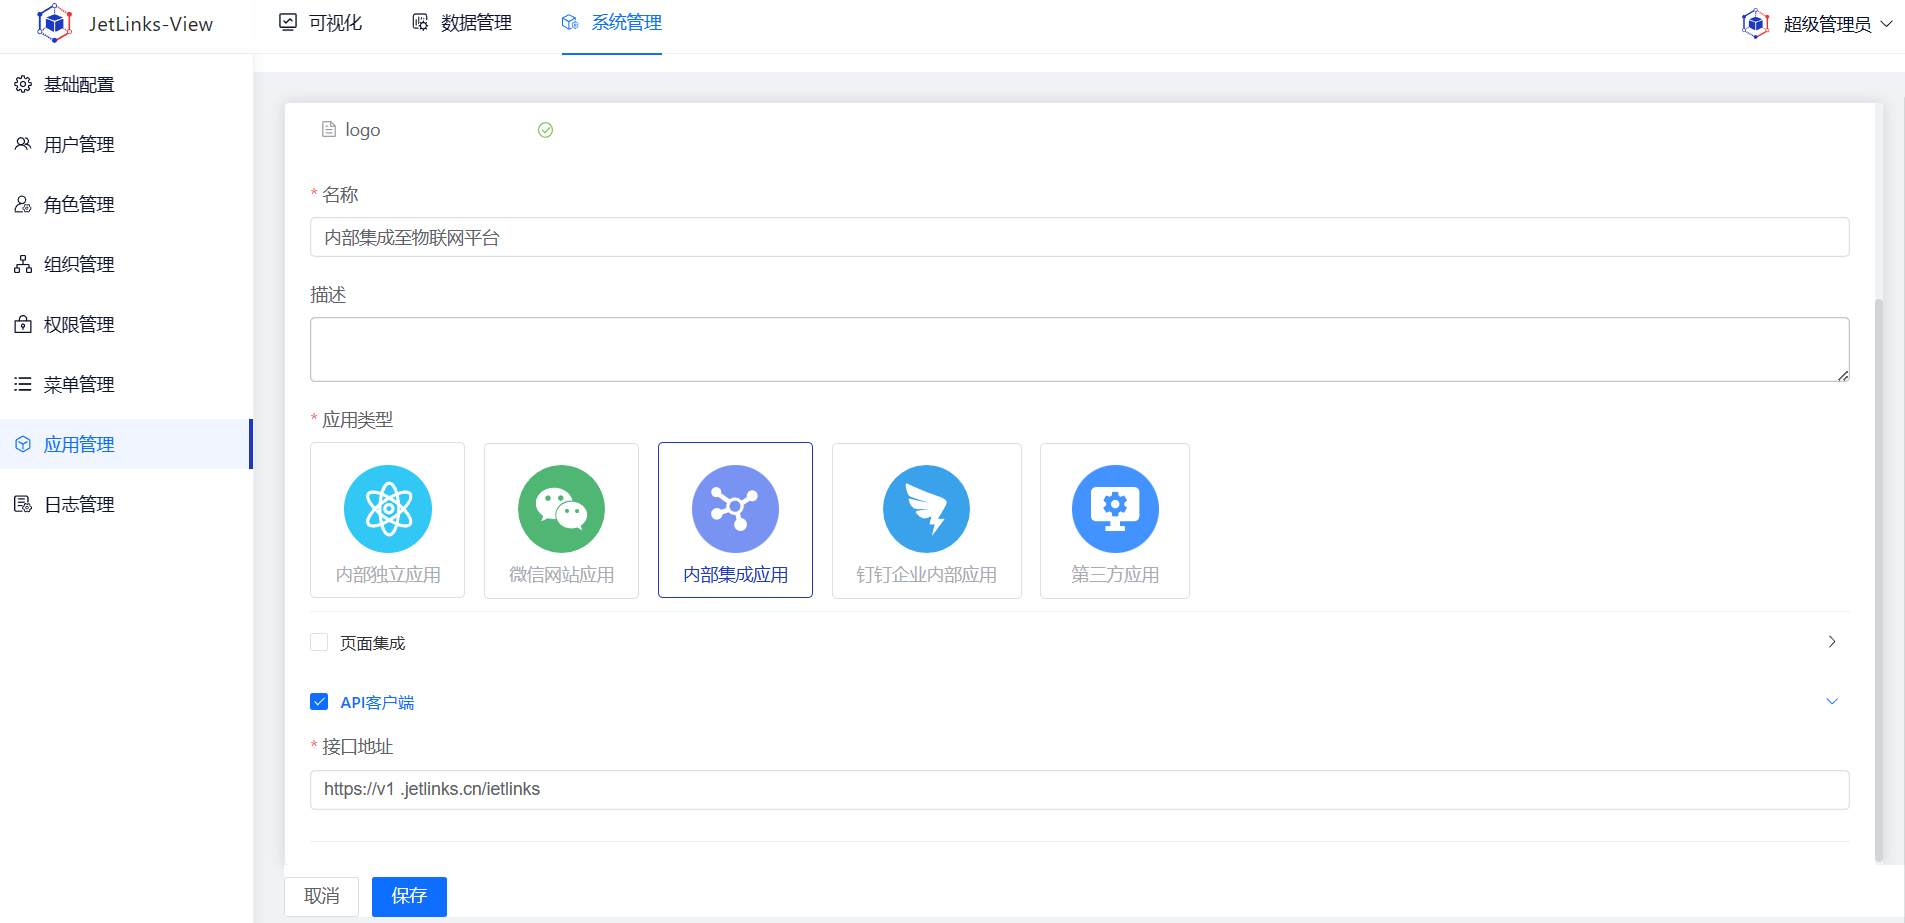
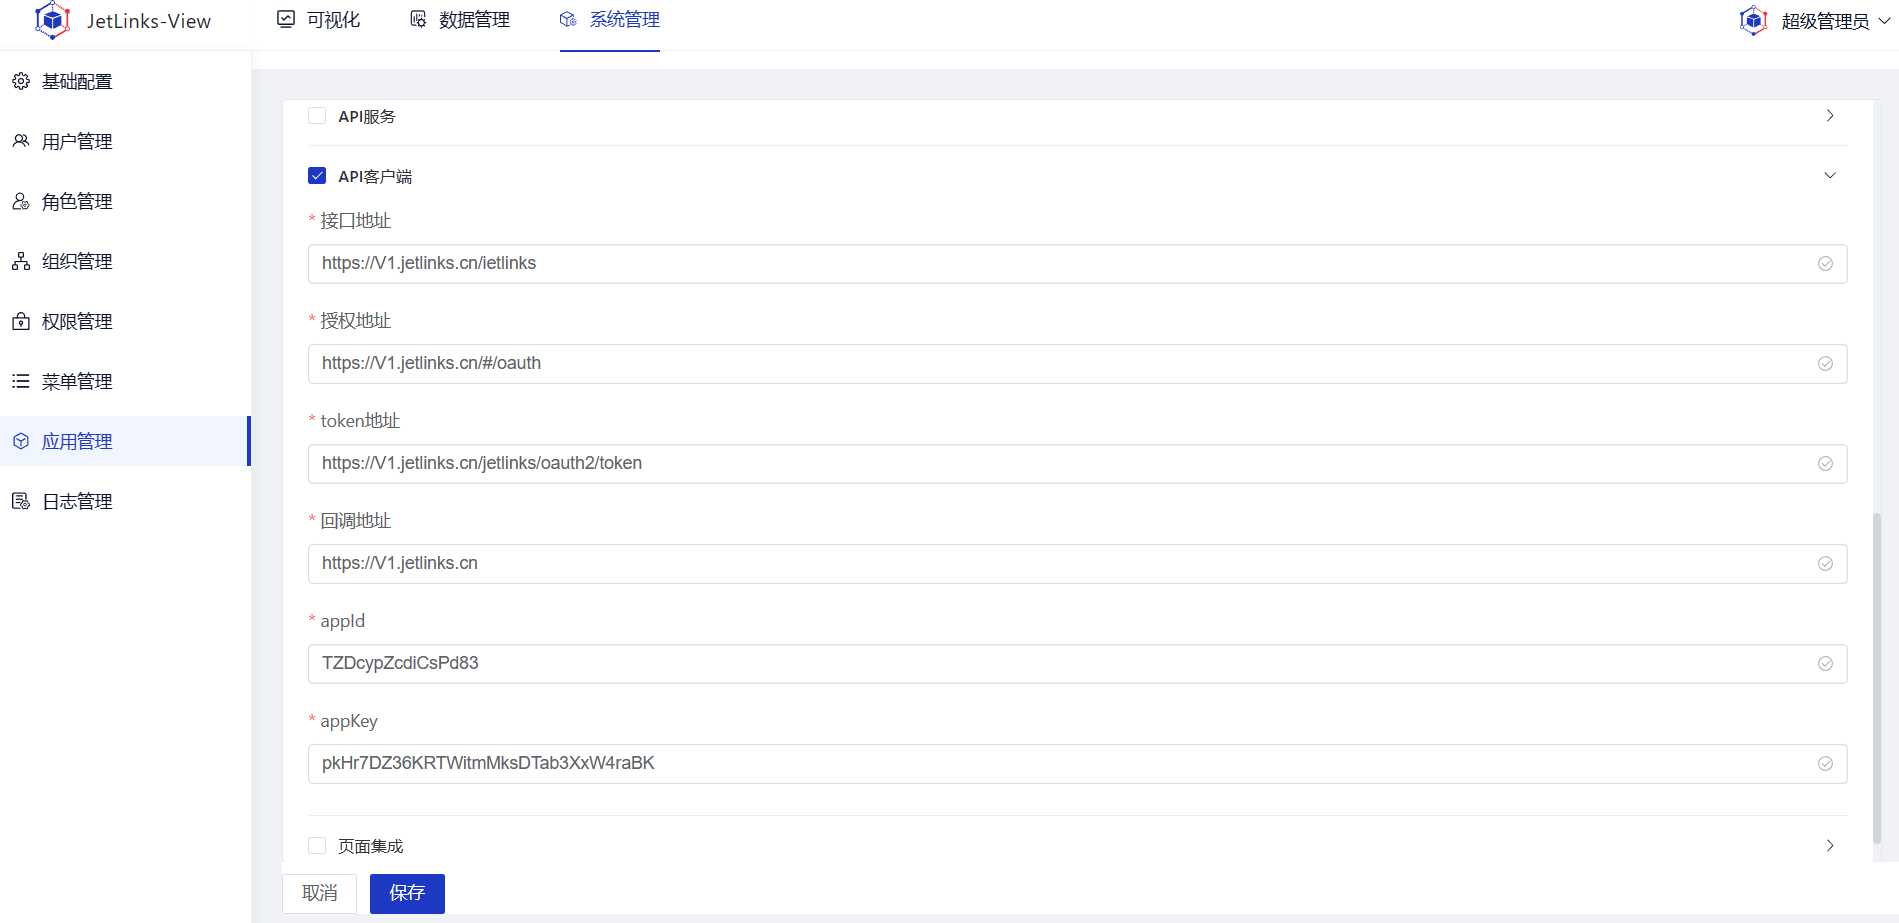
最佳实践-应用管理

diff --git a/.vuepress/config.js b/.vuepress/config.js
@@ -113,8 +113,8 @@ module.exports = {
                     ['/Best_practices/Alarm_Center.md', '告警中心'],
                     // ['/Best_practices/Rule_engine.md', '规则引擎'],
                     // ['/Best_practices/Northbound_output.md', '北向输出'],
-                    ['/Best_practices/Notification_management.md', '通知管理'],
-                    ['/Best_practices/National_standard_cascade.md', '国标级联'],
+                    // ['/Best_practices/Notification_management.md', '通知管理'],
+                    // ['/Best_practices/National_standard_cascade.md', '国标级联'],
                     ['/Best_practices/application_management.md', '应用管理'],
                 ]
             },

diff --git a/Best_practices/application_management.md b/Best_practices/application_management.md
@@ -58,7 +58,7 @@
 适用于将官方开发的其他应用与物联网平台相互集成，例如将可视化平台集成至物联网平台，或者将物联网平台集成至可视化平台。本文以将可视化平台集成至物联网平台为例。
 
 #### 前置条件
-1、可视化平台与物联网平台已成功部署，物联网平台的地址为：V1.jetlinks.cn
+1、可视化平台与物联网平台已成功部署，物联网平台的地址为：V1.jetlinks.cn，可视化平台地址为：https://view.jetlinks.cn
 
 ### 操作步骤
 1.**登录**Jetlinks物联网平台，进入**系统管理>应用管理**菜单，点击**新增**。</br>
@@ -121,19 +121,19 @@
         <tbody>
           <tr>
             <td>接口地址</td>
-            <td>访问API服务的地址，填写示例如截图：https://v1 .jetlinks.cn/ietlinks</td>
+            <td>访问API服务的地址，填写示例如截图：https://V1.jetlinks.cn/ietlinks</td>
           </tr>
           <tr>
             <td>授权地址</td>
-            <td>认证授权地址，填写示例如截图：https://v1.jetlinks.cn/#/oauth</td>
+            <td>认证授权地址，填写示例如截图：https://V1.jetlinks.cn/#/oauth</td>
           </tr>
           <tr>
             <td>token地址</td>
-            <td>身份认证地址，填写示例如截图：https://v1.jetlinks.cn/jetlinks/oauth2/token</td>
+            <td>身份认证地址，填写示例如截图：https://V1.jetlinks.cn/jetlinks/oauth2/token</td>
           </tr>
           <tr>
             <td>回调地址</td>
-            <td>授权之后跳转到具体页面的回调地址，填写示例如截图：https://v1.jetlinks.cn</td>
+            <td>授权之后跳转到具体页面的回调地址，填写示例如截图：https://V1.jetlinks.cn</td>
           </tr>
           <tr>
             <td>appid</td>
@@ -141,7 +141,7 @@
           </tr>
           <tr>
             <td>appKey</td>
-            <td>填写对应物联网平台应用的API服务中生成的appKey，填写示例如截图：appkeypkHr7DZ36KRTWitmMksDTab3XxW4raBK</td>
+            <td>填写对应物联网平台应用的API服务中生成的appKey，填写示例如截图：pkHr7DZ36KRTWitmMksDTab3XxW4raBK</td>
           </tr>
         </tbody>
       </table>
@@ -280,7 +280,7 @@
 ![](./img/ding-app.png)
 2.**登录**Jetlinks物联网平台，进入**系统管理>应用管理**菜单，点击**新增**。</br>
 ![](./img/287.png)
-3.选择**微信网站应用**，勾选**单点登录**配置，填写相关配置后点击**保存**。
+3.选择**钉钉企业内部应用**，勾选**单点登录**配置，填写相关配置后点击**保存**。
 ![](./img/ding-app1.png)
 
 <table class='table'>
@@ -302,7 +302,7 @@
         </tbody>
       </table>
 
-  4.进入物联网平台首页，页面底部将出现**微信登录的icon**，点击icon，进行**微信登录**。
+  4.进入物联网平台首页，页面底部将出现**钉钉登录的icon**，点击icon，进行**钉钉登录**。
   ![](./img/304.png)
   ![](./img/306.png)
 

diff --git a/Northbound_output/Northbound_output8.md b/Northbound_output/Northbound_output8.md
@@ -65,7 +65,7 @@
         </tbody>
       </table>
 
-将物联网平台数据北向输出到DuerOS平台，需分别在物联网平台、DuerOS平台进行配置，详细的操作步骤，请参见：[最佳实践-北向输出](../Best_practices/Northbound_output.md)。</br>
+<!-- 将物联网平台数据北向输出到DuerOS平台，需分别在物联网平台、DuerOS平台进行配置，详细的操作步骤，请参见：[最佳实践-北向输出](../Best_practices/Northbound_output.md)。</br> -->
 
 #### 编辑
 ##### 操作步骤
@@ -161,7 +161,7 @@
         </tbody>
       </table>
 
-将物联网平台数据北向输出到阿里云物联网平台，需分别在物联网平台、DuerOS平台进行配置，详细的操作步骤，请参见：[最佳实践-北向输出](../Best_practices/Northbound_output.md)。</br>
+<!-- 将物联网平台数据北向输出到阿里云物联网平台，需分别在物联网平台、DuerOS平台进行配置，详细的操作步骤，请参见：[最佳实践-北向输出](../Best_practices/Northbound_output.md)。</br> -->
 
 ##### 后续步骤
 1.进入**设备实例信息**页面，填写阿里云桥接入配置，建立平台设备与与阿里云设备的映射关系。

diff --git a/Data_Acquisition/Data_Acquisition.md b/Data_Acquisition/Data_Acquisition.md
@@ -122,11 +122,11 @@
       </table>
 
 #### 编辑
-与**Modbus TCP**操作逻辑相同。
+参考**Modbus TCP**操作逻辑。
 #### 启用/禁用
-与**Modbus TCP**操作逻辑相同。
+参考**Modbus TCP**操作逻辑。
 #### 删除
-与**Modbus TCP**操作逻辑相同。
+参考**Modbus TCP**操作逻辑。
 
 
 ## 采集器
@@ -378,10 +378,10 @@
 
 
 #### 编辑点位
-与**Modbus TCP**点位操作逻辑相同。
+参考**Modbus TCP**点位操作逻辑。
 #### 启用/禁用
-与**Modbus TCP**点位操作逻辑相同。
+参考**Modbus TCP**点位操作逻辑。
 #### 删除
-与**Modbus TCP**点位操作逻辑相同。
+参考**Modbus TCP**点位操作逻辑。
 
 
